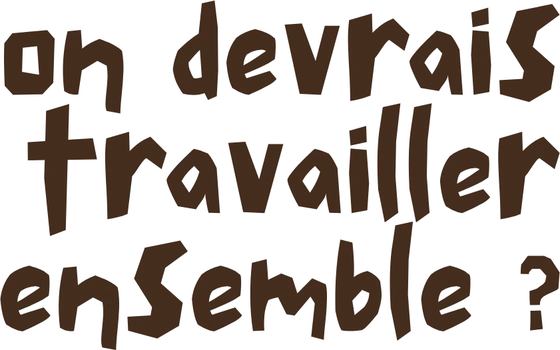
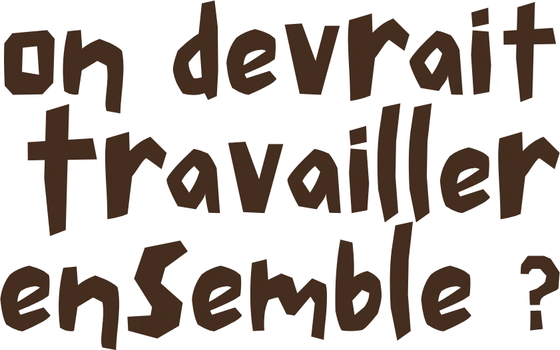
Contact : corrige « on devrais » en « on devrait »
Claude-Session: https://claude.ai/code/session_01NmiyCA2bRmUL7igAsFdbfh

Changed region(s): [[0.8804, 0.0, 1.0, 0.2857]]

diff --git a/index.html b/index.html
@@ -21,7 +21,7 @@
   <link rel="preconnect" href="https://fonts.googleapis.com">
   <link rel="preconnect" href="https://fonts.gstatic.com" crossorigin>
   <link rel="stylesheet" href="https://fonts.googleapis.com/css2?family=Poppins:ital,wght@0,400;0,500;0,700;0,800;0,900;1,700;1,900&display=swap">
-  <link rel="stylesheet" href="style.css?v=202611251225">
+  <link rel="stylesheet" href="style.css?v=202611251942">
 </head>
 <body class="booting">
   <!-- Écran de démarrage -->
@@ -69,9 +69,9 @@
   <!-- Dock -->
   <nav id="dock" aria-label="Dock"></nav>
 
-  <script src="data.js?v=202611251225"></script>
-  <script src="data-en.js?v=202611251225"></script>
-  <script src="assets/projets/slides.js?v=202611251225"></script>
-  <script src="script.js?v=202611251225"></script>
+  <script src="data.js?v=202611251942"></script>
+  <script src="data-en.js?v=202611251942"></script>
+  <script src="assets/projets/slides.js?v=202611251942"></script>
+  <script src="script.js?v=202611251942"></script>
 </body>
 </html>

diff --git a/script.js b/script.js
@@ -1003,7 +1003,7 @@ function renderContact(el) {
       </div>
       <div class="contact-stage">
         <div class="fuji" data-a="zoom" style="--d:100ms"><img src="${A}photo-fuji.webp" alt=""></div>
-        <img class="t-ensemble" src="${A}title-ensemble.webp" alt="On devrait travailler ensemble ?" data-a="wipe" style="--d:500ms" data-depth="8">
+        <img class="t-ensemble" src="${A}title-ensemble.webp?v=202611251942" alt="On devrait travailler ensemble ?" data-a="wipe" style="--d:500ms" data-depth="8">
         ${sticker("sparkles.webp", "sparkles", "pop", 1100, 0, 16)}
         ${sticker("smiley.webp", "smiley", "stamp", 1300, -8, 12)}
       </div>
